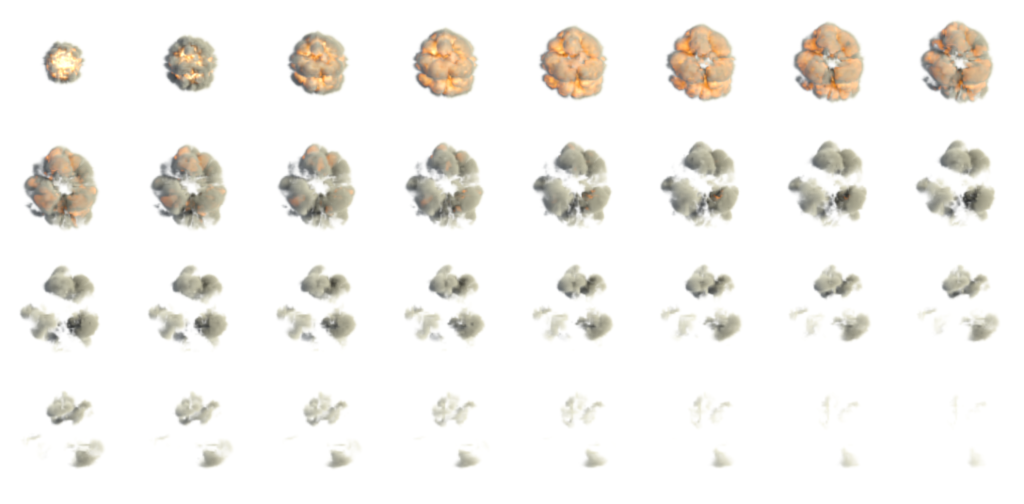
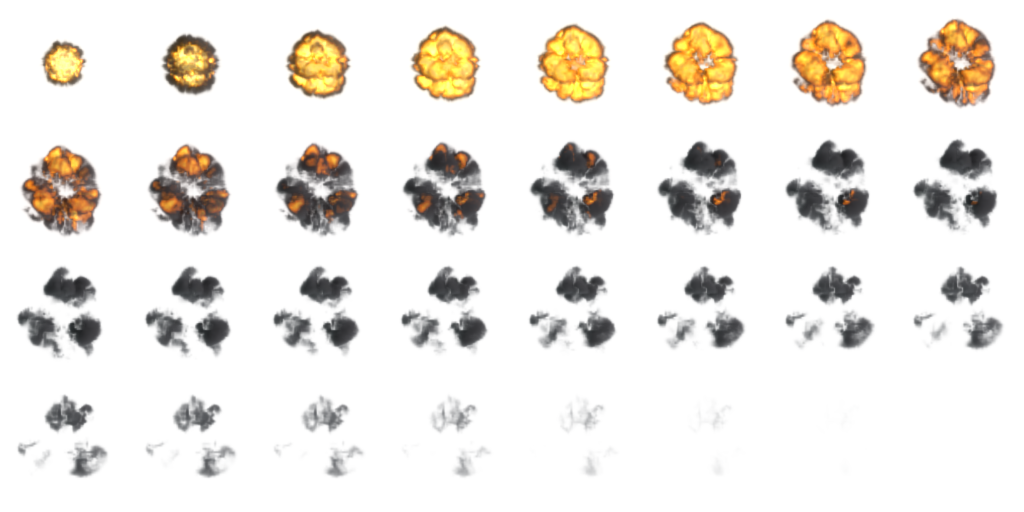
improved look of explosions

diff --git a/examples/mars/include/Bullet.hpp b/examples/mars/include/Bullet.hpp
@@ -25,22 +25,24 @@ class Bullet: public SceneObject {
     position = transform * position;
     float rot = math::get_rotation(transform);
 
-    Transform = math::make_translation(position.x(), position.y()) * math::make_scale(0.8) * math::make_rotation(rot);
+    Transform = math::make_translation(position.x(), position.y()) * math::make_scale(0.5) * math::make_rotation(rot);
 
-    auto shape = PolygonCollisionShape::create();
-         shape->Coordinates = {math::vec2(-0.8, -0.2), math::vec2(0.6 ,-0.6), math::vec2(0.8 ,-0.1), math::vec2(0.4 ,0.5), math::vec2(-0.3, 0.6)};
+    auto shape = CircleCollisionShape::create();
     auto body = add<DynamicBodyComponent>();
-         body->Density = 1;
+         body->Density = 0.5;
          body->Shape = shape;
     body->start_contact_with_static.connect([this, scene](StaticBodyComponent* other, math::vec2 const& pos) {
       scene->add_object(std::make_shared<Explosion>(math::get_translation(WorldTransform())));
       detach();
     });
 
-    auto tex = add<SpriteComponent>();
+    auto tex = add<AnimatedSpriteComponent>();
+         tex->Time.set(1, 0.5);
+         tex->Time.set_direction(AnimatedFloat::LINEAR);
+         tex->Time.set_loop(AnimatedFloat::REPEAT);
          tex->Depth = 0.0f;
          tex->Material = MaterialDatabase::instance()->get("bullet");
-         tex->Transform = math::make_scale(1.0f);
+         tex->Transform = math::make_scale(1.6f, 0.8f) * math::make_rotation(-M_PI/2);
 
     auto emitter = add<ParticleEmitterComponent>();
          emitter->Density = 50;
@@ -55,6 +57,11 @@ class Bullet: public SceneObject {
     deleter->on_delete.connect([=](){
       scene->get_component<ParticleSystemComponent>()->remove_emitter(emitter.get());
     });
+  }
+
+  void update(double time) {
+    SceneObject::update(time);
+    get_component<DynamicBodyComponent>()->apply_local_force(math::vec2(5.5f, 0.f));
   }
 
   void shoot(SceneObjectPtr const& owner) {

diff --git a/include/swift2d/properties/AnimatedProperty.hpp b/include/swift2d/properties/AnimatedProperty.hpp
@@ -34,6 +34,10 @@ class AnimatedProperty: public Property<T> {
     IN, OUT, IN_OUT, OUT_IN, LINEAR
   };
 
+  enum Loop {
+    NONE, REPEAT, TOGGLE
+  };
+
   // ----------------------------------------------------- contruction interface
   AnimatedProperty()
     : Property<T>()
@@ -54,9 +58,11 @@ class AnimatedProperty: public Property<T> {
     , exp_(0.0) {}
 
   AnimatedProperty(T const& start, T const& end, double duration = 1.0,
-                   Direction direction = IN_OUT, double exponent = 0.0)
+                   Direction direction = IN_OUT, Loop loop = NONE,
+                   double exponent = 0.0)
     : Property<T>(start)
     , direction_(direction)
+    , loop_(loop)
     , start_(start)
     , end_(end)
     , state_(0.0)
@@ -81,6 +87,10 @@ class AnimatedProperty: public Property<T> {
 
   void set_direction(Direction dir) {
     direction_ = dir;
+  }
+
+  void set_loop(Loop loop) {
+    loop_ = loop;
   }
 
   void update(double time) {
@@ -108,6 +118,14 @@ class AnimatedProperty: public Property<T> {
       Property<T>::set(end_);
       state_ = -1.0;
       on_finish_.emit();
+
+      if (loop_ == REPEAT) {
+        Property<T>::set(start_);
+        set(end_, duration_);
+
+      } else if (loop_ == TOGGLE) {
+        set(start_, duration_);
+      }
     }
   }
 
@@ -146,6 +164,7 @@ class AnimatedProperty: public Property<T> {
 
   Signal<> on_finish_;
   Direction direction_;
+  Loop loop_;
 
   T start_, end_;
   double state_;

diff --git a/examples/mars/src/Explosion.cpp b/examples/mars/src/Explosion.cpp
@@ -42,7 +42,7 @@ void Explosion::update(double time) {
     auto mat = Material::create();
     mat->AnimatedDiffuseTexture.set(get_texture("explosion.png"));
     mat->Emit = 1.0;
-    mat->Glow = 0.0;
+    mat->Glow = 1.0;
     MaterialDatabase::instance()->add("explosion", mat);
   }
 
@@ -50,14 +50,23 @@ void Explosion::update(double time) {
     initialized_ = true;
 
     auto deleter = add<TimedDeleteBehavior>();
-         deleter->Life = 0.9f;
+         deleter->Life = 0.69f;
+
+    auto flash = add<PointLightComponent>();
+         flash->Texture = TextureDatabase::instance()->get("light");
+         flash->Transform = math::make_scale(5);
+         flash->Color = Color(1, 1, 0.6, 1);
 
     auto tex = add<AnimatedSpriteComponent>();
-         tex->Transform = math::make_scale(2);
+         tex->Transform = math::make_scale(1.5);
          tex->Depth = 0.1f;
          tex->Material.set(MaterialDatabase::instance()->get("explosion"));
-         tex->Time.set(1, 1);
+         tex->Time.set(1, 0.7);
          tex->Time.set_direction(AnimatedFloat::LINEAR);
+         tex->Time.on_change().connect([flash](float val){
+           auto c = flash->Color();
+           flash->Color = Color(c.r(), c.g(), c.b(), 0.7-val);
+         });
 
     for (int i(0); i<20; ++i) {
       float r(math::random::get(0.0f, 2*M_PI));

diff --git a/examples/mars/src/AssetManager.cpp b/examples/mars/src/AssetManager.cpp
@@ -13,14 +13,12 @@
 
 AssetManager::AssetManager() {
 
-  TextureDatabase::instance()->add("bullet", Texture::create(Application::instance()->get_resource("images", "asteroid_diffuse0.png")));
-  TextureDatabase::instance()->add("bulletn", Texture::create(Application::instance()->get_resource("images", "asteroid_normal0.png")));
+  TextureDatabase::instance()->add("light", Texture::create(Application::instance()->get_resource("images", "light.png")));
 
   auto mat = Material::create();
-  mat->DiffuseTexture = TextureDatabase::instance()->get("bullet");
-  mat->NormalTexture = TextureDatabase::instance()->get("bulletn");
-  mat->Emit = 0.3;
-  mat->Glow = 0.0;
+  mat->AnimatedDiffuseTexture = AnimatedTexture::create(Application::instance()->get_resource("images", "bomb.png"), 5, 4);
+  mat->Emit = 1;
+  mat->Glow = 0.5;
   MaterialDatabase::instance()->add("bullet", mat);
 }
 

diff --git a/src/swift2d/materials/ShaderIncludes.cpp b/src/swift2d/materials/ShaderIncludes.cpp
@@ -97,13 +97,13 @@ ShaderIncludes::ShaderIncludes() {
   )");
 
   add_include("get_lit_surface_color", R"(
-    vec3 get_lit_surface_color(vec3 dir, vec3 color, float attenuation) {
+    vec3 get_lit_surface_color(vec3 dir, vec4 color, float attenuation) {
       vec3  normal      = normalize(get_normal() - 0.5);
       vec3  light_info  = get_light_info();
       float gloss       = light_info.g;
       float specular    = pow(max(0, reflect(dir, normal).z), gloss*100 + 1) * gloss;
       float diffuse     = max(0, dot(dir, normal));
-      vec3  light       = (diffuse*get_diffuse() + specular) * color.rgb;
+      vec3  light       = (diffuse*get_diffuse() + specular) * color.rgb * color.a;
       return (1.0-light_info.r) * attenuation * light;
     }
   )");

diff --git a/src/swift2d/materials/DirectionalLightShader.cpp b/src/swift2d/materials/DirectionalLightShader.cpp
@@ -25,7 +25,7 @@ DirectionalLightShader::DirectionalLightShader()
 
       // uniforms
       uniform vec3 light_dir;
-      uniform vec3 light_color;
+      uniform vec4 light_color;
 
       @include "gbuffer_input"
       @include "get_lit_surface_color"
@@ -42,7 +42,7 @@ DirectionalLightShader::DirectionalLightShader()
   , g_buffer_normal(get_uniform<int>("g_buffer_normal"))
   , g_buffer_light(get_uniform<int>("g_buffer_light"))
   , light_dir(get_uniform<math::vec3>("light_dir"))
-  , light_color(get_uniform<math::vec3>("light_color")) {}
+  , light_color(get_uniform<math::vec4>("light_color")) {}
 
 ////////////////////////////////////////////////////////////////////////////////
 

diff --git a/src/swift2d/materials/PointLightShader.cpp b/src/swift2d/materials/PointLightShader.cpp
@@ -28,7 +28,7 @@ PointLightShader::PointLightShader()
 
       // uniforms
       uniform sampler2D light_tex;
-      uniform vec3      light_color;
+      uniform vec4      light_color;
 
       @include "gbuffer_input"
       @include "get_lit_surface_color"
@@ -53,7 +53,7 @@ PointLightShader::PointLightShader()
   , g_buffer_normal(get_uniform<int>("g_buffer_normal"))
   , g_buffer_light(get_uniform<int>("g_buffer_light"))
   , light_tex(get_uniform<int>("light_tex"))
-  , light_color(get_uniform<math::vec3>("light_color")) {}
+  , light_color(get_uniform<math::vec4>("light_color")) {}
 
 ////////////////////////////////////////////////////////////////////////////////
 

diff --git a/src/swift2d/components/DirectionalLightComponent.cpp b/src/swift2d/components/DirectionalLightComponent.cpp
@@ -31,7 +31,7 @@ void DirectionalLightComponent::draw(RenderContext const& ctx) {
   DirectionalLightShader::instance()->g_buffer_normal.Set(2);
   DirectionalLightShader::instance()->g_buffer_light.Set(3);
   DirectionalLightShader::instance()->light_dir.Set(math::normalized(Direction()));
-  DirectionalLightShader::instance()->light_color.Set(Color().vec3());
+  DirectionalLightShader::instance()->light_color.Set(Color().vec4());
 
   Quad::instance()->draw(ctx);
 }

diff --git a/include/swift2d/materials/DirectionalLightShader.hpp b/include/swift2d/materials/DirectionalLightShader.hpp
@@ -32,7 +32,7 @@ class DirectionalLightShader : public Shader,
   oglplus::Lazy<oglplus::Uniform<int>>          g_buffer_normal;
   oglplus::Lazy<oglplus::Uniform<int>>          g_buffer_light;
   oglplus::Lazy<oglplus::Uniform<math::vec3>>   light_dir;
-  oglplus::Lazy<oglplus::Uniform<math::vec3>>   light_color;
+  oglplus::Lazy<oglplus::Uniform<math::vec4>>   light_color;
 
   friend class Singleton<DirectionalLightShader>;
 

diff --git a/include/swift2d/materials/PointLightShader.hpp b/include/swift2d/materials/PointLightShader.hpp
@@ -36,7 +36,7 @@ class PointLightShader : public Shader,
   oglplus::Lazy<oglplus::Uniform<int>>          g_buffer_normal;
   oglplus::Lazy<oglplus::Uniform<int>>          g_buffer_light;
   oglplus::Lazy<oglplus::Uniform<int>>          light_tex;
-  oglplus::Lazy<oglplus::Uniform<math::vec3>>   light_color;
+  oglplus::Lazy<oglplus::Uniform<math::vec4>>   light_color;
 
   friend class Singleton<PointLightShader>;
 

diff --git a/src/swift2d/components/PointLightComponent.cpp b/src/swift2d/components/PointLightComponent.cpp
@@ -39,7 +39,7 @@ void PointLightComponent::draw(RenderContext const& ctx) {
   PointLightShader::instance()->g_buffer_normal.Set(2);
   PointLightShader::instance()->g_buffer_light.Set(3);
   PointLightShader::instance()->light_tex.Set(0);
-  PointLightShader::instance()->light_color.Set(Color().vec3());
+  PointLightShader::instance()->light_color.Set(Color().vec4());
 
   Quad::instance()->draw(ctx);
 }

diff --git a/examples/mars/src/MarsGuiComponent.cpp b/examples/mars/src/MarsGuiComponent.cpp
@@ -14,7 +14,7 @@
 MarsGuiComponent::MarsGuiComponent(
   std::unordered_map<std::string, std::function<void()>> const& callbacks,
   bool hide_top, int overlap)
-  : top_(-1.f, 0.f, 0.f, swift::AnimatedFloat::IN_OUT, 1.5f)
+  : top_(-1.f, 0.f, 0.f, swift::AnimatedFloat::IN_OUT, swift::AnimatedFloat::NONE, 1.5f)
   , hide_top_(hide_top)
   , visible_(false)
   , overlap_(overlap) {
